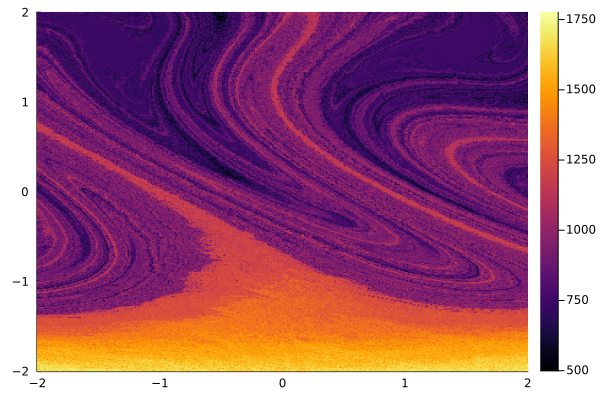
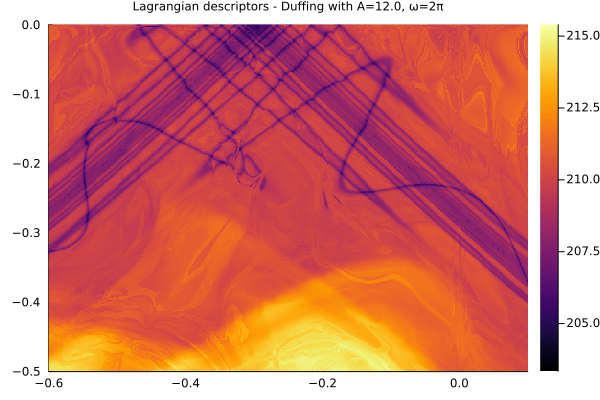
duffing examples and readme

diff --git a/README.md b/README.md
@@ -2,15 +2,81 @@
 
 Implementation of the method of **Lagrangian Descriptors** to highlight singular features (e.g. stable or unstable invariant manifolds) of the dynamics of an evolutionary system (such as ordinary or partial differential equations, random equations, or stochastic differential equations).
 
+## Examples
+
 Here are some examples on a periodically forced Duffing system.
 
-![Duffing 1](examples/img/duffing1.png)
+```julia
+using OrdinaryDiffEq, Plots
+using LinearAlgebra: norm
+using LagrangianDescriptors
 
-![Duffing 2](examples/img/duffing2.png)
+function f!(du, u, p, t)
+    x, y = u
+    A, ω = p
+    du[1] = y
+    du[2] = x - x^3 + A * cos(ω * t)
+end
+
+u0 = [0.5, 2.2]
+tspan = (0.0, 13.0)
+A = 0.3; ω = π
+
+p = (A, ω)
+prob = ODEProblem(f!, u0, tspan, p)
+
+M(du, u, p, t) = norm(du)
+
+uu0 = [[x, y] for y in range(-1.0, 1.0, length=301), x in range(-1.8, 1.8, length=301)]
+
+lagprob = LagrangianDescriptorProblem(prob, M, uu0)
+```
+
+With all setup, we may solve it as follows:
+
+```
+julia> @time lagsol = solve(lagprob, Tsit5())
+  4.241800 seconds (204.88 M allocations: 9.173 GiB, 23.40% gc time, 24.99% compilation time)
+```
+
+Then we use the builtin plot recipe to get the heatmap of the Lagrangian descriptors:
+
+```julia
+plot(lagsol)
+```
+
+![Duffing Lagrangian descriptor](examples/img/duffing.png)
+
+We can also plot just the forward and just the backward descriptors with an extra parameter:
+
+```julia
+plot(lagsol, :forward, title="Forward Lagrangian descriptors for the forced Duffing with A=$A and ω=$ω", titlefont=8)
+
+plot(lagsol, :backward, title="Backward Lagrangian descriptors for the forced Duffing with A=$A and ω=$ω", titlefont=8)
+```
+
+![Duffing forward Lagrangian descriptor](examples/img/duffing_forward.png)
+![Duffing backward Lagrangian descriptor](examples/img/duffing_backward.png)
+
+Now, with a different set of parameters and a different window of initial conditions:
+
+```julia
+A = 12.0; ω = 2π; p = (A, ω);
+
+uu0 = [[x, y] for y in range(-0.5, 0.0, length=501), x in range(-0.6, 0.1, length=501)]
+
+lagprob = LagrangianDescriptorProblem(prob, M, uu0)
+
+lagsol = solve(lagprob, Tsit5());
+
+plot(lagsol, title="Lagrangian descriptors - Duffing with A=$A, ω=2π", titlefont=8)
+```
+
+![Duffing Lagrangian descriptor](examples/img/duffing2.png)
 
 ## Current state
 
-Handling of problems of the type `ODEProblem` is essentially done. It is just missing the plot recipe.
+Handling of problems of the type `ODEProblem` is essentially done, including plot recipes for 1D and 2D problems.
 
 What we have so far:
 
@@ -21,11 +87,11 @@ What we have so far:
 ## Roadmap
 
 What is currently missing:
-1. A proper solution type for the result of solving the Lagrangian descriptor problem. Currently, it returns an `EnsembleSolution`. We should have a proper `LagrangianDescriptorSolution` that would include the `EnsembleSolution` as one of its fields and whatever else seems suitable.
-1. A plot recipe;
-1. Lots of tests;
+1. A more flexible plot recipe;
+1. More tests;
 1. Proper documentation;
 1. Support for other types of problems, e.g. `SDEProblem`, `RODEProblem`, mixed differential-algebraic equations, etc.;
+1. Maybe an adaptive method to refine the set `uu0` of initial conditions!;
 1. I don't know whether/how the idea applies to delay type equations, but we should check that out.
 1. Register the package.
 
@@ -38,8 +104,8 @@ Here are the two initial ideas for implementing such method. We ended up impleme
 We augment the system and compute the descriptors along with the solution.
 
 1. One builds a problem `prob` of a given type from `SciMLBase.jl`, say an `ODEProblem` for `du/dt = f(u, p, t)`.
-2. Then we pass it to `ldprob = LagrangianDescriptorProblem(prob, M, uu)`, where `M = M(du, u, p, t)` is the (infinitesimal) descriptor, which is a scalar function, e.g. `M(du, u, p, t) = norm(du)`, and `uu` is some iterator with a collection of initial conditions (e.g. an `Array` for a mesh in phase space or a portion of a sub-manifold of the phase space). 
-3.  `LagrangianDescriptorProblem` uses `prob.f` and `prob.tspan` to create, via `ComponentArrays`,  a new `ODEProblem` for an augmented system of the form
+2. Then we pass it to `ldprob = LagrangianDescriptorProblem(prob, M, uu0)`, where `M = M(du, u, p, t)` is the (infinitesimal) descriptor, which is a scalar function, e.g. `M(du, u, p, t) = norm(du)`, and `uu0` is some iterator with a collection of initial conditions (e.g. an `Array` for a mesh in phase space or a portion of a sub-manifold of the phase space). 
+3.  `LagrangianDescriptorProblem` uses `prob.f`, `prob.p`, `prob.u0`, and `prob.tspan` to create, via `ComponentArrays`, a new `ODEProblem` for an augmented system of the form
 
 $$
 \begin{cases}
@@ -52,7 +118,7 @@ $$
 
 5. Notice $v$ solves the system backwards. If `tspan = (t0, tf)`, then $v$ solves it backwards in the interval `(2t0 - tf, t0) = (t0 - (tf - t_0), t_0)`. So, we solve the system forwards and backwards at the same time.
 6. The forward and backward Lagrangian descriptors `L_f` and `L_b` are the forward and backward integrations of the infinitesimal descriptor `M`.
-7. Then, solving an `LagrangianDescriptorProblem` works via an `EnsembleProblem`, where at each new solve, a new initial condition is picked.
+7. Then, solving a `LagrangianDescriptorProblem` works via an `EnsembleProblem`, where at each new solve, a new initial condition is picked.
 8. At the end of each of those solves, we only need to save the values of `Lf[end]` and `Lb[end]`.
 9. We can visualize the Lagrangian descriptor using a heatmap of `Lf[end]`, `Lb[end]` or `Lf[end] + Lb[end]`.
 10. We can also add a flag to build only the forward descriptor `Lf` or the backward descriptor `Lb`.
@@ -89,7 +155,7 @@ I have decided against implementing this post-processing approach. As I guessed,
   31.834 μs (405 allocations: 39.30 KiB)
 ```
 
-We see that solving both forward and backward equations is a bit faster than solving the augmented system with both forward and backward evolutions, but the latter includes the computations of the Lagrangian descriptors. On the other hand, for post-processing each separate forward and backward evolutions to find the Lagrangian descriptors takes quite a long time. And this was done for a single trajectory. Imagine for the ensemble of solutions, on top of the memory demand. It is not worth it. I will include a separate "post-processing" method for the sake of debugging, development, and comparison, but it will not be part of the main API.
+We see that solving both forward and backward equations is a bit faster than solving the augmented system with both forward and backward evolutions together, but the latter also includes the computations of the Lagrangian descriptors. On the other hand, solving the forward and backward equations separately requires a post-processing step for each forward and backward evolutions to obtain the Lagrangian descriptors, and that takes quite a long time. And this was done for a single trajectory. Imagine for the ensemble of solutions, on top of the memory demand. It is not worth it. I will include a separate "post-processing" method for the sake of debugging, development, and comparison, but it will not be part of the main API.
 
 ## References
 
